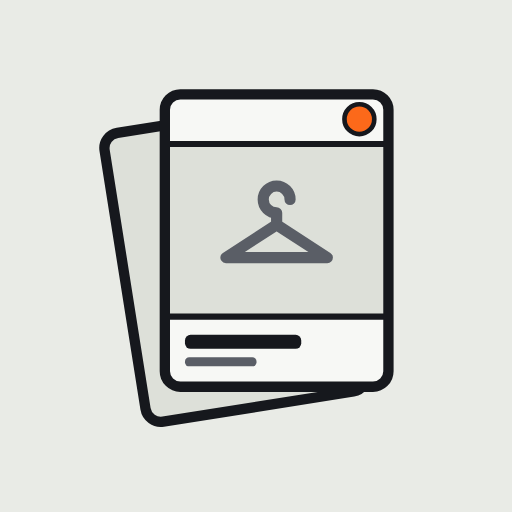
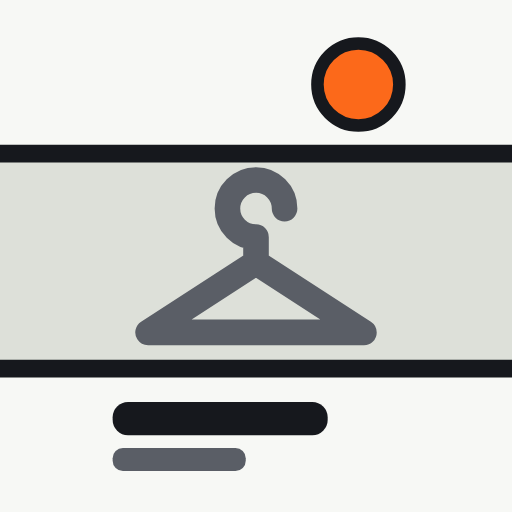
style: 앱 아이콘을 카드 한 장이 가득 찬 디자인으로 변경
작은 크기에서도 잘 보이도록 옷 아이템 카드가 아이콘 전체를 채움.

Claude-Session: https://claude.ai/code/session_016aTck7eZ42XjHTwX8MK9VJ

Changed region(s): [[0.0, 0.0625, 1.0, 0.9375]]

diff --git a/CLAUDE.md b/CLAUDE.md
@@ -15,7 +15,7 @@
 | 항목 | 결정 |
 |---|---|
 | 앱 이름 | **옷벤토리** (옷 + 인벤토리, 2026-10-30 사용자 결정). `strings.xml`의 `app_name`. |
-| 앱 아이콘 | 겹친 옷 아이템 카드 (카테고리 라벨 없이, 주황 점 + 옷걸이). 런처는 adaptive icon(`mipmap-anydpi-v26`, 배경 `#E9EBE6`), Play용 512px는 `docs/store/icon-512.png`, 원본 `docs/store/icon.svg`. |
+| 앱 아이콘 | 옷 아이템 카드 한 장이 아이콘 전체를 채움 (위: 주황 점 · 가운데: 타일 + 옷걸이 · 아래: 이름 줄, 카테고리 라벨 없음). 런처는 adaptive icon(`mipmap-anydpi-v26`, 배경 `#E9EBE6`), Play용 512px는 `docs/store/icon-512.png`, 원본 `docs/store/icon.svg`. |
 | 패키지 이름 | **`com.developer_cm.weatherclothes`** (2026-10-30 사용자 결정). `applicationId`·`namespace`·Kotlin 패키지 모두 이 이름. Play에 올린 뒤에는 바꿀 수 없다. |
 | 서버 | **없음.** AWS, Firebase, 자체 백엔드, 서버리스 함수 모두 쓰지 않는다. |
 | 푸시 알림 | **없음.** 알림 관련 라이브러리, 권한도 추가하지 않는다. |

diff --git a/docs/play-release.md b/docs/play-release.md
@@ -55,7 +55,7 @@
 
 ## 4. 스토어 등록정보
 
-- [x] 앱 아이콘 512×512: `docs/store/icon-512.png` (원본 `docs/store/icon.svg`. 겹친 옷 아이템 카드 디자인)
+- [x] 앱 아이콘 512×512: `docs/store/icon-512.png` (원본 `docs/store/icon.svg`. 옷 아이템 카드 한 장이 가득 찬 디자인)
 - [ ] 그래픽 이미지 1024×500
 - [ ] 휴대전화 스크린샷 2장 이상 (오늘 화면, 옷장, 위젯)
 - [ ] 짧은 설명 / 자세한 설명
